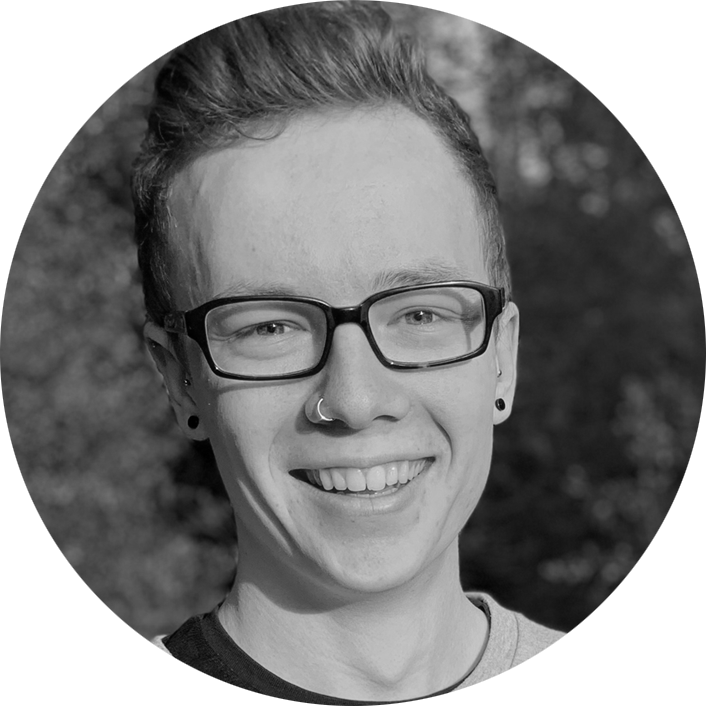
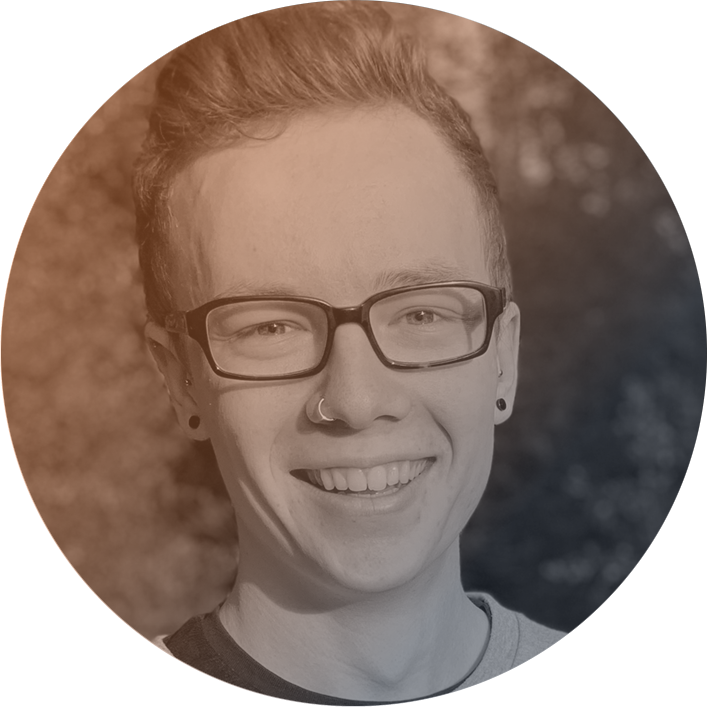
New colour scheme, updated face.png

diff --git a/css/main.css b/css/main.css
@@ -9,13 +9,13 @@ h1 {
     font-family: 'EB Garamond', serif;
     font-size: 29px;
     margin-top: 127px;
-    color: #213D0B;
+    color: #ff853b;
 }
 h2 {
     font-size: 18px;
     margin-top: 45px;
     margin-bottom: 64px;
-    color: #3D6D16;
+    color: #F7EAFF;
 }
 h2, h5, p {
     font-family: 'Oswald', sans-serif;
@@ -30,13 +30,13 @@ p {
 h5 {
     font-weight: bold;
     font-size: 18px;
-    color: #3D6D16;
+    color: #3A4454;
 }
 
 .sectionheader h4 {
     font-size: 28px;
     font-family: "EB Garamond", serif;
-    color: #213D0B;
+    color: #ff853b;
 }
 .sectioncontent {
     margin-top: 25px;
@@ -44,6 +44,15 @@ h5 {
 .contactheader {
     margin-bottom: 50px;
     font-weight: normal;
+}
+.sectionheader2 h4{
+    font-size: 28px;
+    font-family: "EB Garamond", serif;
+    color: #ff853b;
+    padding-top: 50px;
+}
+.sectioncontent2 h5 {
+    color: #F7EAFF;
 }
 
 .tabsection, .tabsection2 {
@@ -61,12 +70,12 @@ h5 {
 }
 
 .introduction {
-    background-color: #B5E78E;
+    background-color: #3A4454;
     height: 80vh;
     overflow: auto;
 }
 .contact {
-    background-color: #B5E78E;
+    background-color: #3A4454;
     padding-top: 50px;
     padding-bottom: 50px;
 }
@@ -90,12 +99,12 @@ h5 {
 }
 
 textarea {
-    border: 2px solid #B5E78E;
+    border: 2px solid #3A4454;
     border-radius: 10px;
     padding: 10px;
 }
 input {
-    border: 2px solid #B5E78E;
+    border: 2px solid #3A4454 !important;
     border-radius: 10px;
     padding: 10px;
     -webkit-appearance: none;

diff --git a/css/bootstrap.css b/css/bootstrap.css
@@ -1865,7 +1865,7 @@ pre code {
   color: #495057;
   background-color: #fff;
   background-clip: padding-box;
-  border: 2px solid #B5E78E;
+  border: 2px solid #3A4454;
   border-radius: 10px;
   transition: border-color 0.15s ease-in-out, box-shadow 0.15s ease-in-out;
 }
@@ -2420,17 +2420,17 @@ fieldset:disabled a.btn {
 }
 
 .btn-primary {
-  color: #B5E78E;
+  color: #ff853b;
   background-color: transparent;
   padding: 20px;
   border-radius: 10px;
-  border: 2px solid #B5E78E;
+  border: 2px solid #ff853b;
   transition: 300ms ease;
 }
 
 .btn-primary:hover {
   color: #fff;
-  background-color: #B5E78E;
+  background-color: #ff853b;
   transition: 300ms ease;
 }
 .btn-contact {
@@ -2444,23 +2444,23 @@ fieldset:disabled a.btn {
 }
 
 .btn-contact:hover {
-  color: #B5E78E;
+  color: #3A4454;
   background-color: #ffffff;
   transition: 300ms ease;
 }
 .btn-primary-tab {
-  color: #B5E78E;
+  color: #ff853b;
   background-color: transparent;
   padding: 10px;
   border-radius: 10px;
-  border: 2px solid #B5E78E;
+  border: 2px solid #ff853b;
   transition: 300ms ease;
 }
 
 .btn-primary-tab:hover {
   color: #fff;
-  padding: 10px;
-  background-color: #B5E78E;
+  padding: 12px;
+  background-color: #ff853b;
   transition: 300ms ease;
 }
 .btn-primary:focus, .btn-primary.focus {

diff --git a/index.html b/index.html
@@ -204,14 +204,14 @@
 </div>
 
 <section class="contact">
-    <div class="whatido col-10 offset-1 col-md-8 offset-md-2">
-        <div class="sectionheader">
-            <h4>Let's talk</h4>
+    <div id="contact" class="whatido col-10 offset-1 col-md-8 offset-md-2">
+        <div class="sectionheader2">
+            <h4 class="contactheader">Let's talk</h4>
         </div>
-        <div class="sectioncontent">
+        <div class="sectioncontent2">
             <h5 class="contactheader">I’m always on the look-out for new work experience and projects. If you’d like to work with me, let’s talk.</h5>
         </div>
-        <div id="contact" class="contactform">
+        <div class="contactform">
             <div>
                 <form class="col-12">
                     <div class="form-group">
